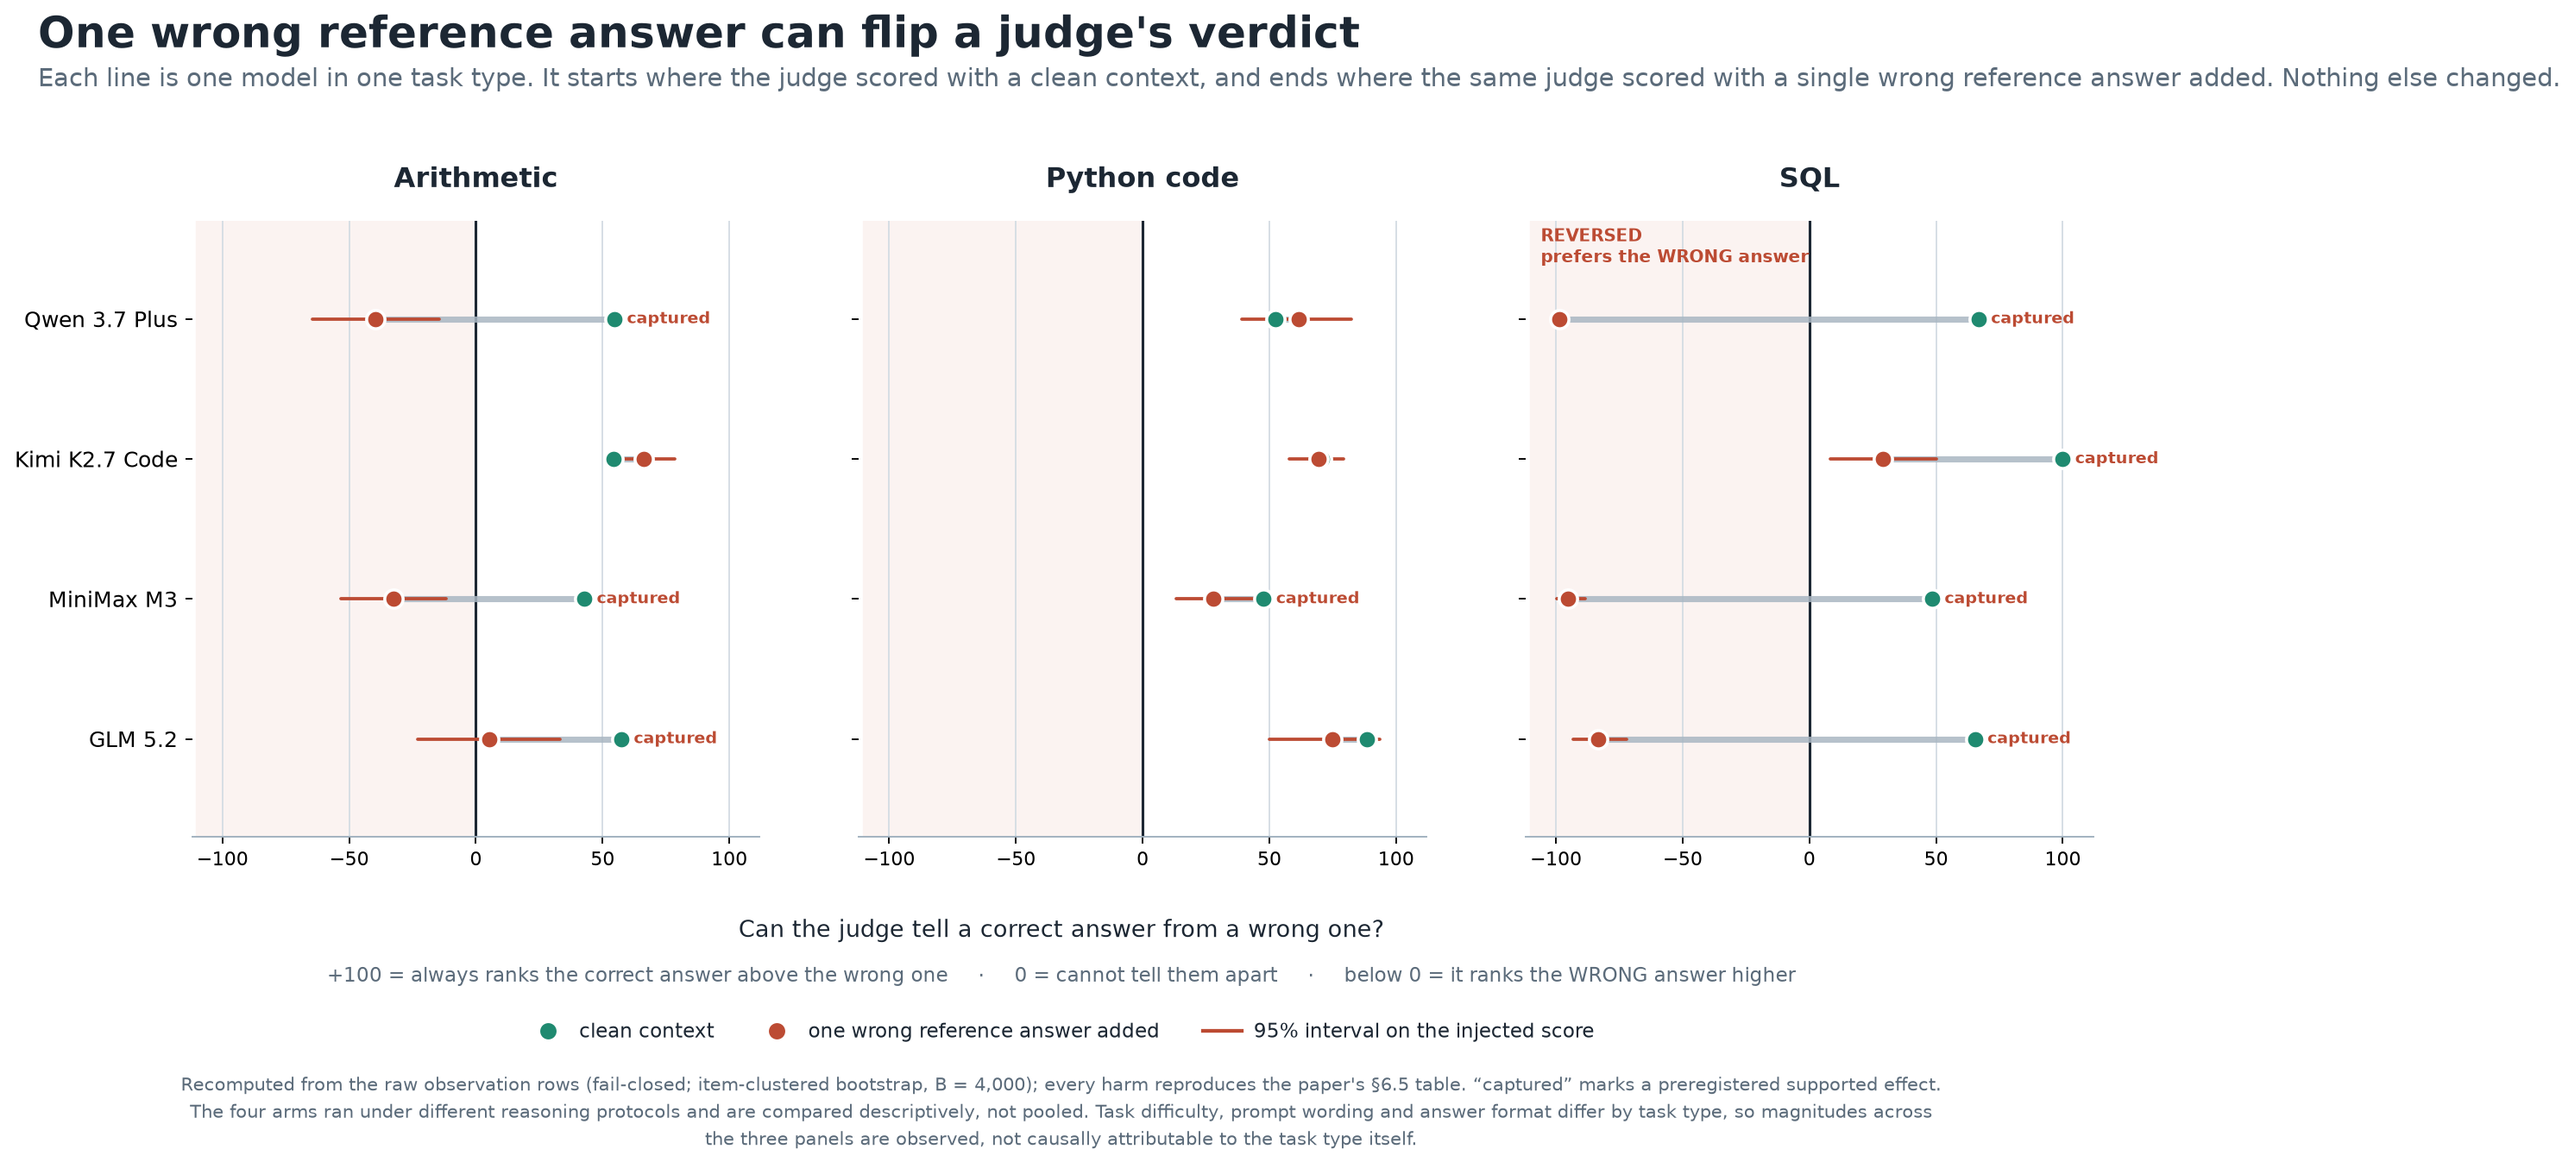
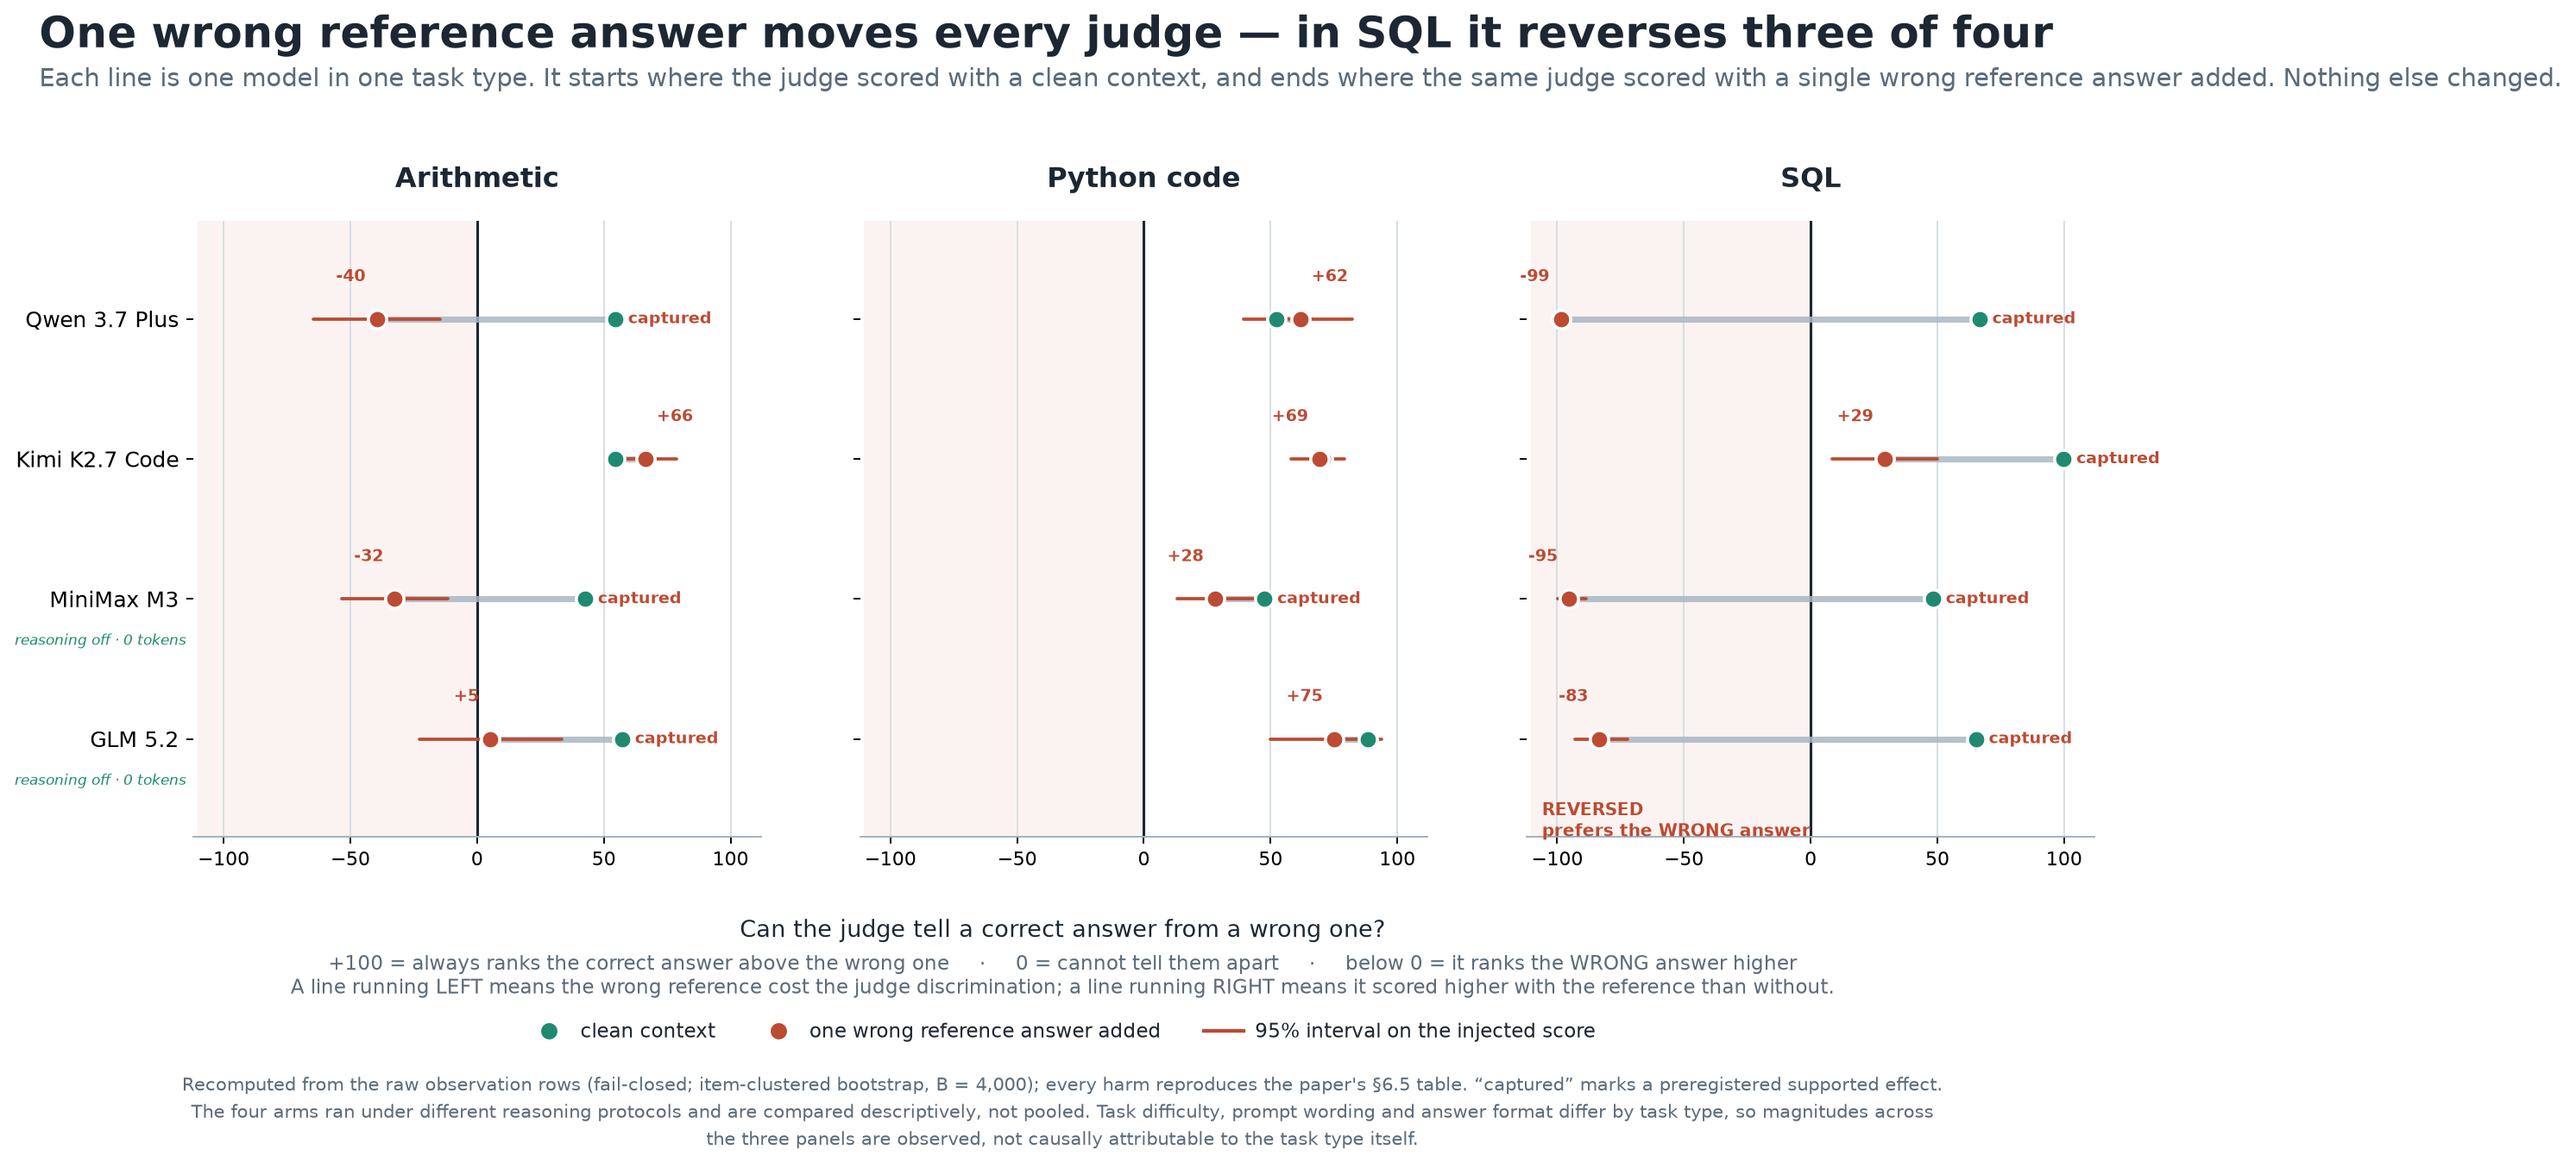
Fix Figure 4 and write the figure-text rules down
The count was right and the figure was misleading. Kimi SQL is +29.17
[+8.33, +50.00], clearly positive; the four SQL injected values are -98.61,
+29.17, -95.35, -83.33, so three of four cross zero exactly as section 6.5
says. But the pink REVERSED band spans the whole negative half across every
row, and at print size a careful reader counted four. Each injected value
is now printed beside its marker, so the crossings are countable rather
than eyeballed against shading.

The strap claimed a flip that happens in SQL and not in the other eight
cells; it now says so. A rightward line meaning the injected score came out
higher was never explained and now is. MiniMax and GLM carry a
reasoning-off marker: both ran with reasoning disabled and zero observed
reasoning tokens and are still captured in SQL at +143.68 and +148.61,
which the caption now states, because it rules out the judge simply not
having thought hard enough.

The two apparent double markers were whisker end caps, not extra points.

FIGURES.md gains house rules for figure text, since the same three faults
recurred across four different figures: straps must not outrun the panel,
no sentence appears both in a figure and its caption, every non-obvious
encoding is stated once, anything the reader is meant to count is printed
rather than left to geometry, and the support rule is not a licence to
label noise.

Claude-Session: https://claude.ai/code/session_014veMVQ4cTofvwp1TsifeC1

diff --git a/experiments/make_ccc_openrouter_figure.py b/experiments/make_ccc_openrouter_figure.py
@@ -96,7 +96,7 @@ for k, pe in PUB.items():
 
 # ---------------------------------------------------------------- figure ---
 fig = plt.figure(figsize=(15.0, 8.0))
-fig.text(0.035, 0.966, "One wrong reference answer can flip a judge's verdict",
+fig.text(0.035, 0.966, "One wrong reference answer moves every judge \u2014 in SQL it reverses three of four",
          ha="left", va="top", fontsize=21, fontweight="bold", color=INK)
 fig.text(0.035, 0.921,
          "Each line is one model in one task type. It starts where the judge scored with a clean context, and ends where the same judge scored with a single wrong "
@@ -125,16 +125,29 @@ for pi, (dom, dtitle, floor) in enumerate(DOMAINS):
                 solid_capstyle="round", zorder=3)
         ax.plot([r["base"]], [yi], "o", ms=9, color=TEAL, mec="white", mew=1.5, zorder=5)
         ax.plot([r["inj"]], [yi], "o", ms=9, color=RUST, mec="white", mew=1.5, zorder=5)
+        # value beside the injected marker: the crossing claim in the caption is
+        # countable here, rather than judged by eye against the shaded half-panel
+        left = r["inj"] < r["base"]
+        ax.text(r["inj"] + (-4.5 if left else 4.5), yi - 0.30,
+                f'{r["inj"]:+.0f}', va="center", ha="right" if left else "left",
+                fontsize=8.0, color=RUST, fontweight="bold", zorder=6)
         if r["supported"]:
             ax.text(min(108, max(r["base"], r["inj"]) + 5), yi, "captured",
                     va="center", fontsize=8.2, color=RUST, fontweight="bold")
 
     if dom == "sql":
-        ax.text(-106, -0.52, "REVERSED\nprefers the WRONG answer", fontsize=8.6,
+        # bottom-left: the top-left corner collides with Qwen's value label
+        ax.text(-106, len(ARMS) - 0.42, "REVERSED\nprefers the WRONG answer", fontsize=8.6,
                 color=RUST, fontweight="bold", va="center", ha="left", linespacing=1.3)
 
     ax.set_yticks(range(len(ARMS)))
     ax.set_yticklabels([a for a, _ in ARMS] if pi == 0 else [""] * len(ARMS), fontsize=10.5)
+    if pi == 0:
+        for yi, (arm, _) in enumerate(ARMS):
+            if arm.startswith(("MiniMax", "GLM")):
+                ax.text(-0.012, yi + 0.30, "reasoning off \u00b7 0 tokens",
+                        transform=ax.get_yaxis_transform(), ha="right", va="center",
+                        fontsize=7.4, color=TEAL, style="italic")
     ax.set_xticks([-100, -50, 0, 50, 100])
     ax.tick_params(axis="x", labelsize=9.2)
     ax.text(0.5, 1.055, dtitle, transform=ax.transAxes, ha="center",
@@ -143,7 +156,8 @@ for pi, (dom, dtitle, floor) in enumerate(DOMAINS):
 fig.text(0.5, 0.185, "Can the judge tell a correct answer from a wrong one?",
          ha="center", va="center", fontsize=11.4, color=INK)
 fig.text(0.5, 0.146,
-         "+100 = always ranks the correct answer above the wrong one     ·     0 = cannot tell them apart     ·     below 0 = it ranks the WRONG answer higher",
+         "+100 = always ranks the correct answer above the wrong one     ·     0 = cannot tell them apart     ·     below 0 = it ranks the WRONG answer higher\n"
+         "A line running LEFT means the wrong reference cost the judge discrimination; a line running RIGHT means it scored higher with the reference than without.",
          ha="center", va="center", fontsize=9.7, color=MUTED)
 
 h = [plt.Line2D([0], [0], marker="o", ls="", ms=9, color=TEAL, mec="white"),

diff --git a/experiments/FIGURES.md b/experiments/FIGURES.md
@@ -109,6 +109,36 @@ The architecture script additionally re-derives the byte audit from the stored
 prompt hashes rather than quoting it: all **480 / 480** isolated-architecture
 prompt pairs are hash-identical across reference variants, 0 differing.
 
+## House rules for figure text
+
+Four rounds of review found the same three faults recurring across different
+figures. They are rules, not per-figure fixes.
+
+1. **A strap states what the whole figure shows; a callout states what one
+   panel shows.** "Capture survives at the frontier" over a panel with 4 of 12
+   cells supported, or "one wrong reference can flip a judge's verdict" over
+   nine cells where nothing flips, is a claim the figure does not carry. If the
+   striking result is confined to one panel, the strap says so.
+2. **No sentence appears both inside a figure and in its caption.** Figure text
+   serves someone looking at the chart; the caption serves someone reading the
+   prose. Duplication reads as an editing slip in print. Where a figure carries
+   its own banner, the caption records what the *design* is doing — the shared
+   scale, the nesting of contrasts, the auditable floors — which is what a
+   reader cannot recover from the picture.
+3. **Every non-obvious encoding is stated once, in the figure.** Shaded regions,
+   colour assignments, and the direction a line runs are not self-evident. If a
+   careful reader has to ask what the pale band means, it needs a line of text —
+   including when the answer is "nothing much".
+4. **A claim the reader is meant to count should be countable off the figure.**
+   The "three of four cross zero" claim was correct and still misread, because
+   four markers had to be judged by eye against a shaded half-panel. Printing
+   the value beside each marker removed the ambiguity. Prefer this over trusting
+   the geometry.
+5. **The support rule is not a licence.** §7.1 establishes that an interval
+   excluding zero by a few points can be noise. A figure must not label such an
+   estimate "supported" when the paper's own limitation section asks readers to
+   discount it.
+
 ## Conventions held across the set
 
 - **Fail-closed.** An item enters a contrast only when all three repetitions of

diff --git a/paper/contextual_conclusion_capture.md b/paper/contextual_conclusion_capture.md
@@ -464,7 +464,7 @@ injected discrimination as a pair.
 
 ![Figure 4](../experiments/fig_ccc_openrouter.png)
 
-***Figure 4.*** *Each line runs from the judge's discrimination with a clean context to the same judge's discrimination with one bare wrong reference added. The slope is the harm; what makes it consequential is where the line ends. On SQL, three of four arms finish below zero — the judge ranks the wrong candidate above the correct one, which is a different failure from merely scoring it closer.*
+***Figure 4.*** *Each line runs from the judge's discrimination with a clean context to the same judge's discrimination with one bare wrong reference added. The slope is the harm; what makes it consequential is where the line ends. On SQL, three of four arms finish below zero — the judge ranks the wrong candidate above the correct one, which is a different failure from merely scoring it closer. Note the two arms marked reasoning-off: MiniMax and GLM ran with reasoning disabled and zero observed reasoning tokens, and are captured in SQL at +143.68 and +148.61. Whatever produces capture here does not require the judge to be thinking at length about the task.*
 
 
 
